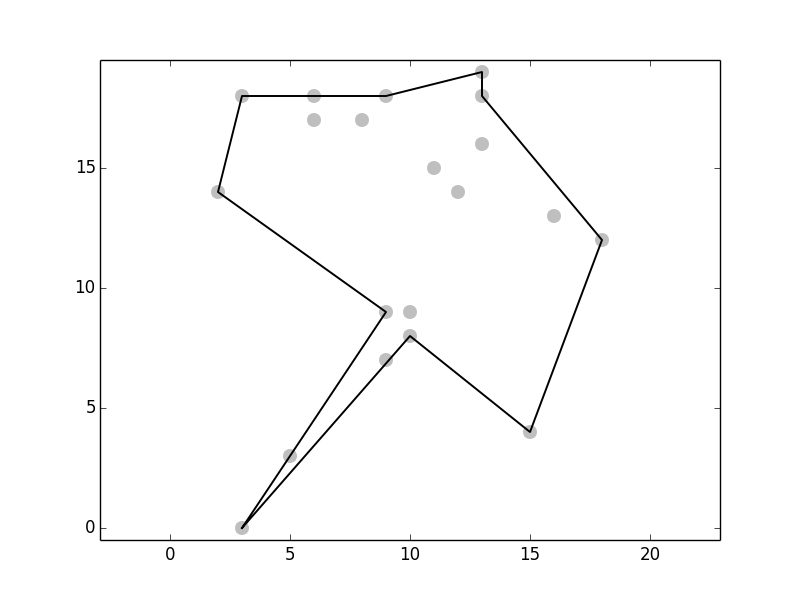
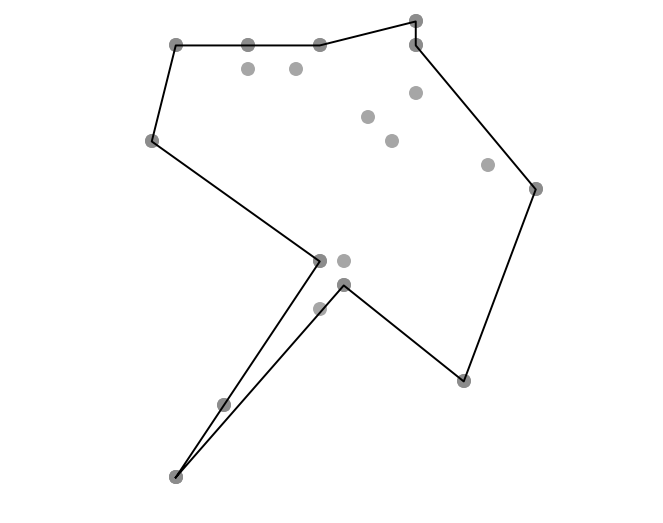
removed axis from plot

diff --git a/ConcaveHull.py b/ConcaveHull.py
@@ -57,13 +57,17 @@ def plotPoints(dataset):
     plt.show()
 
 def plotPath(dataset, path):
-    plt.plot(dataset[:,0],dataset[:,1],'o',markersize=10,markerfacecolor='0.75',
+    plt.plot(dataset[:,0],dataset[:,1],'o',markersize=10,markerfacecolor='0.65',
             markeredgewidth=0)
     path = np.asarray(path)
+    plt.plot(path[:,0],path[:,1],'o',markersize=10,markerfacecolor='0.55',
+            markeredgewidth=0)
     plt.plot(path[:,0],path[:,1],'-',lw=1.4,color='k')
     plt.axis('equal')
     plt.axis([min(dataset[:,0])-0.5,max(dataset[:,0])+0.5,min(dataset[:,1])-0.5,
         max(dataset[:,1])+0.5])
+    plt.axis('off')
+    plt.savefig('./doc/figure_1.png', bbox_inches='tight')
     plt.show()
 
 def removePoint(dataset, point):
